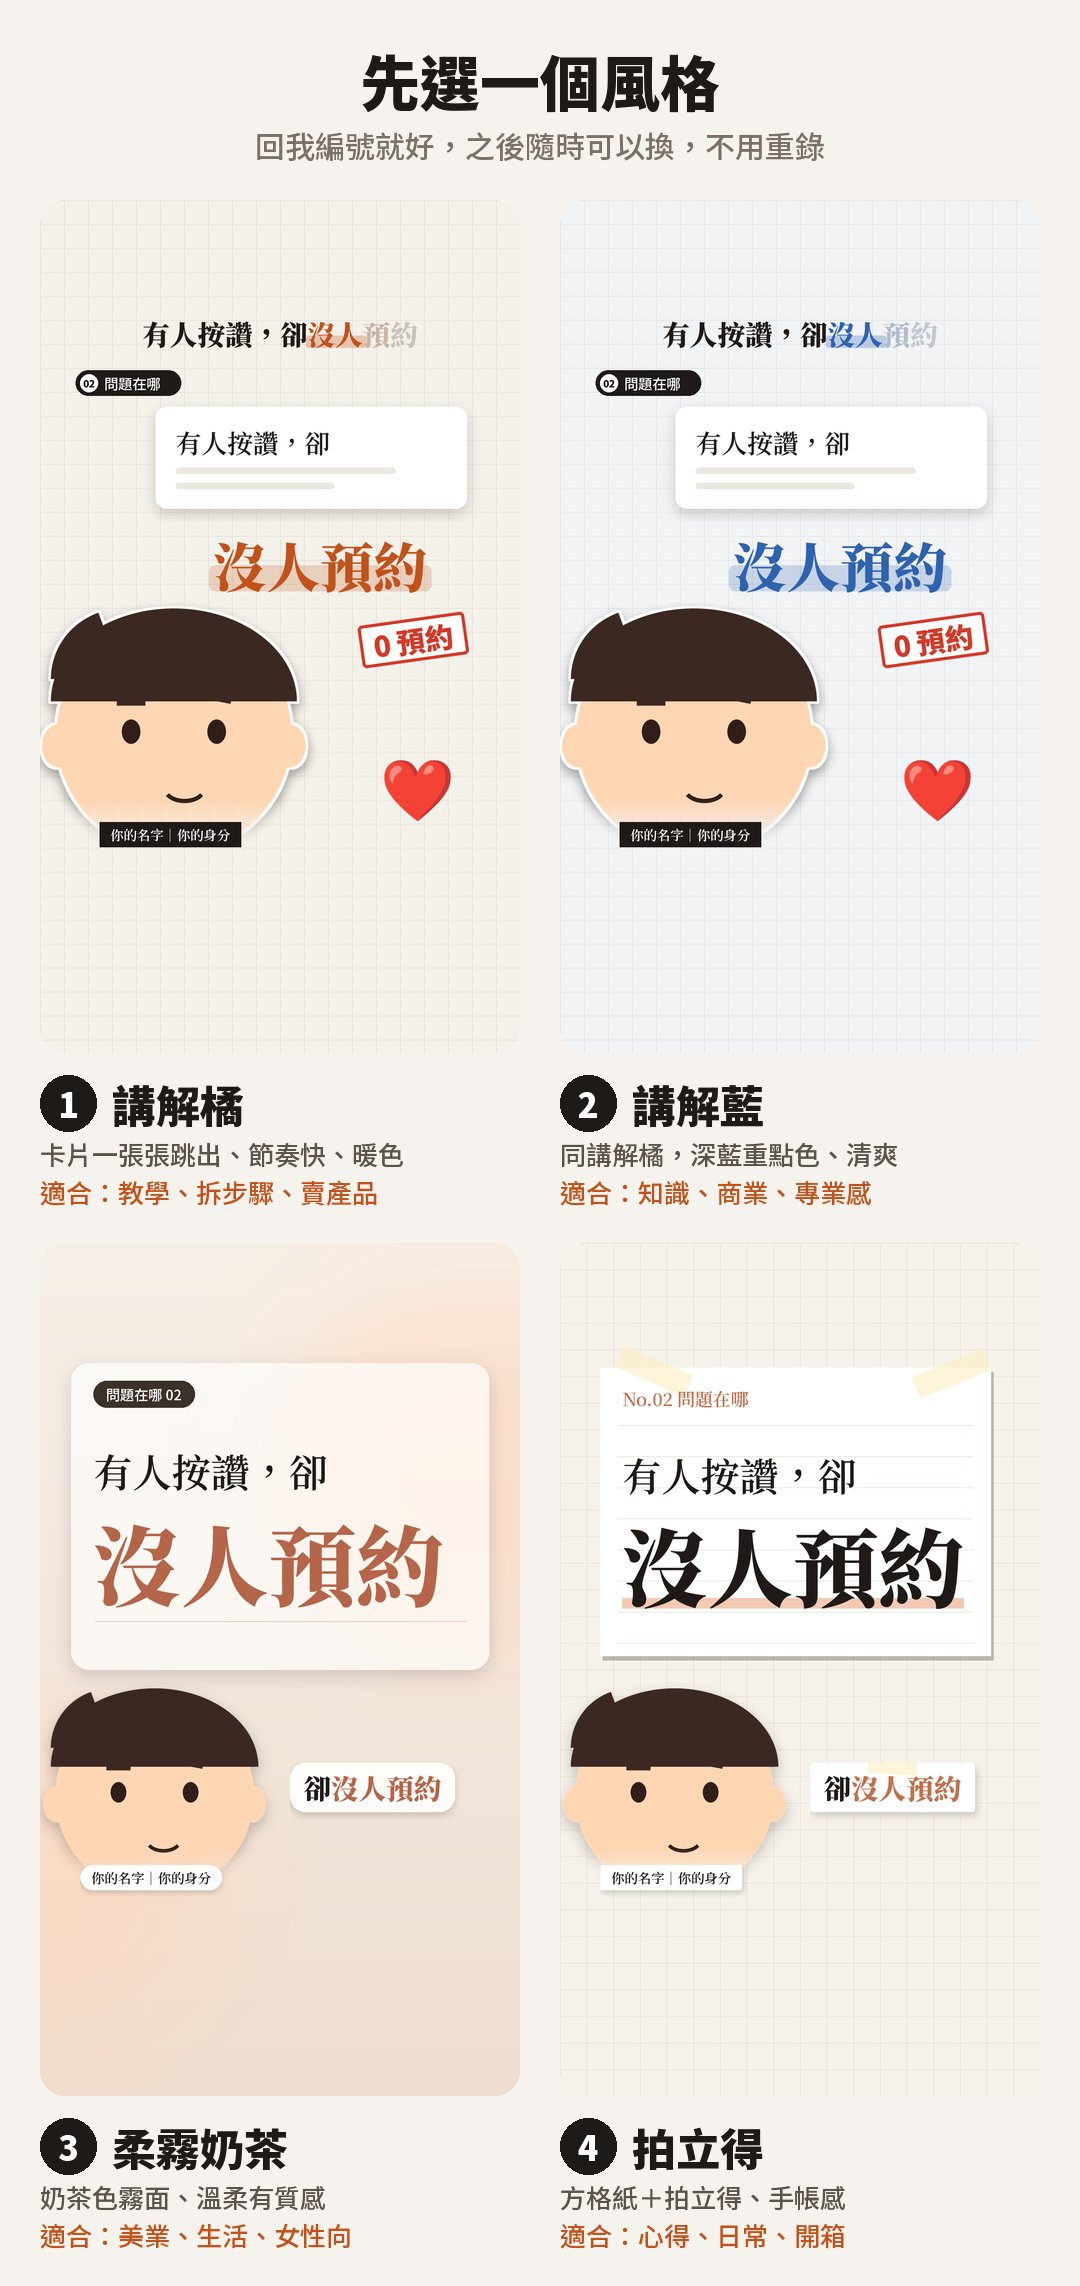
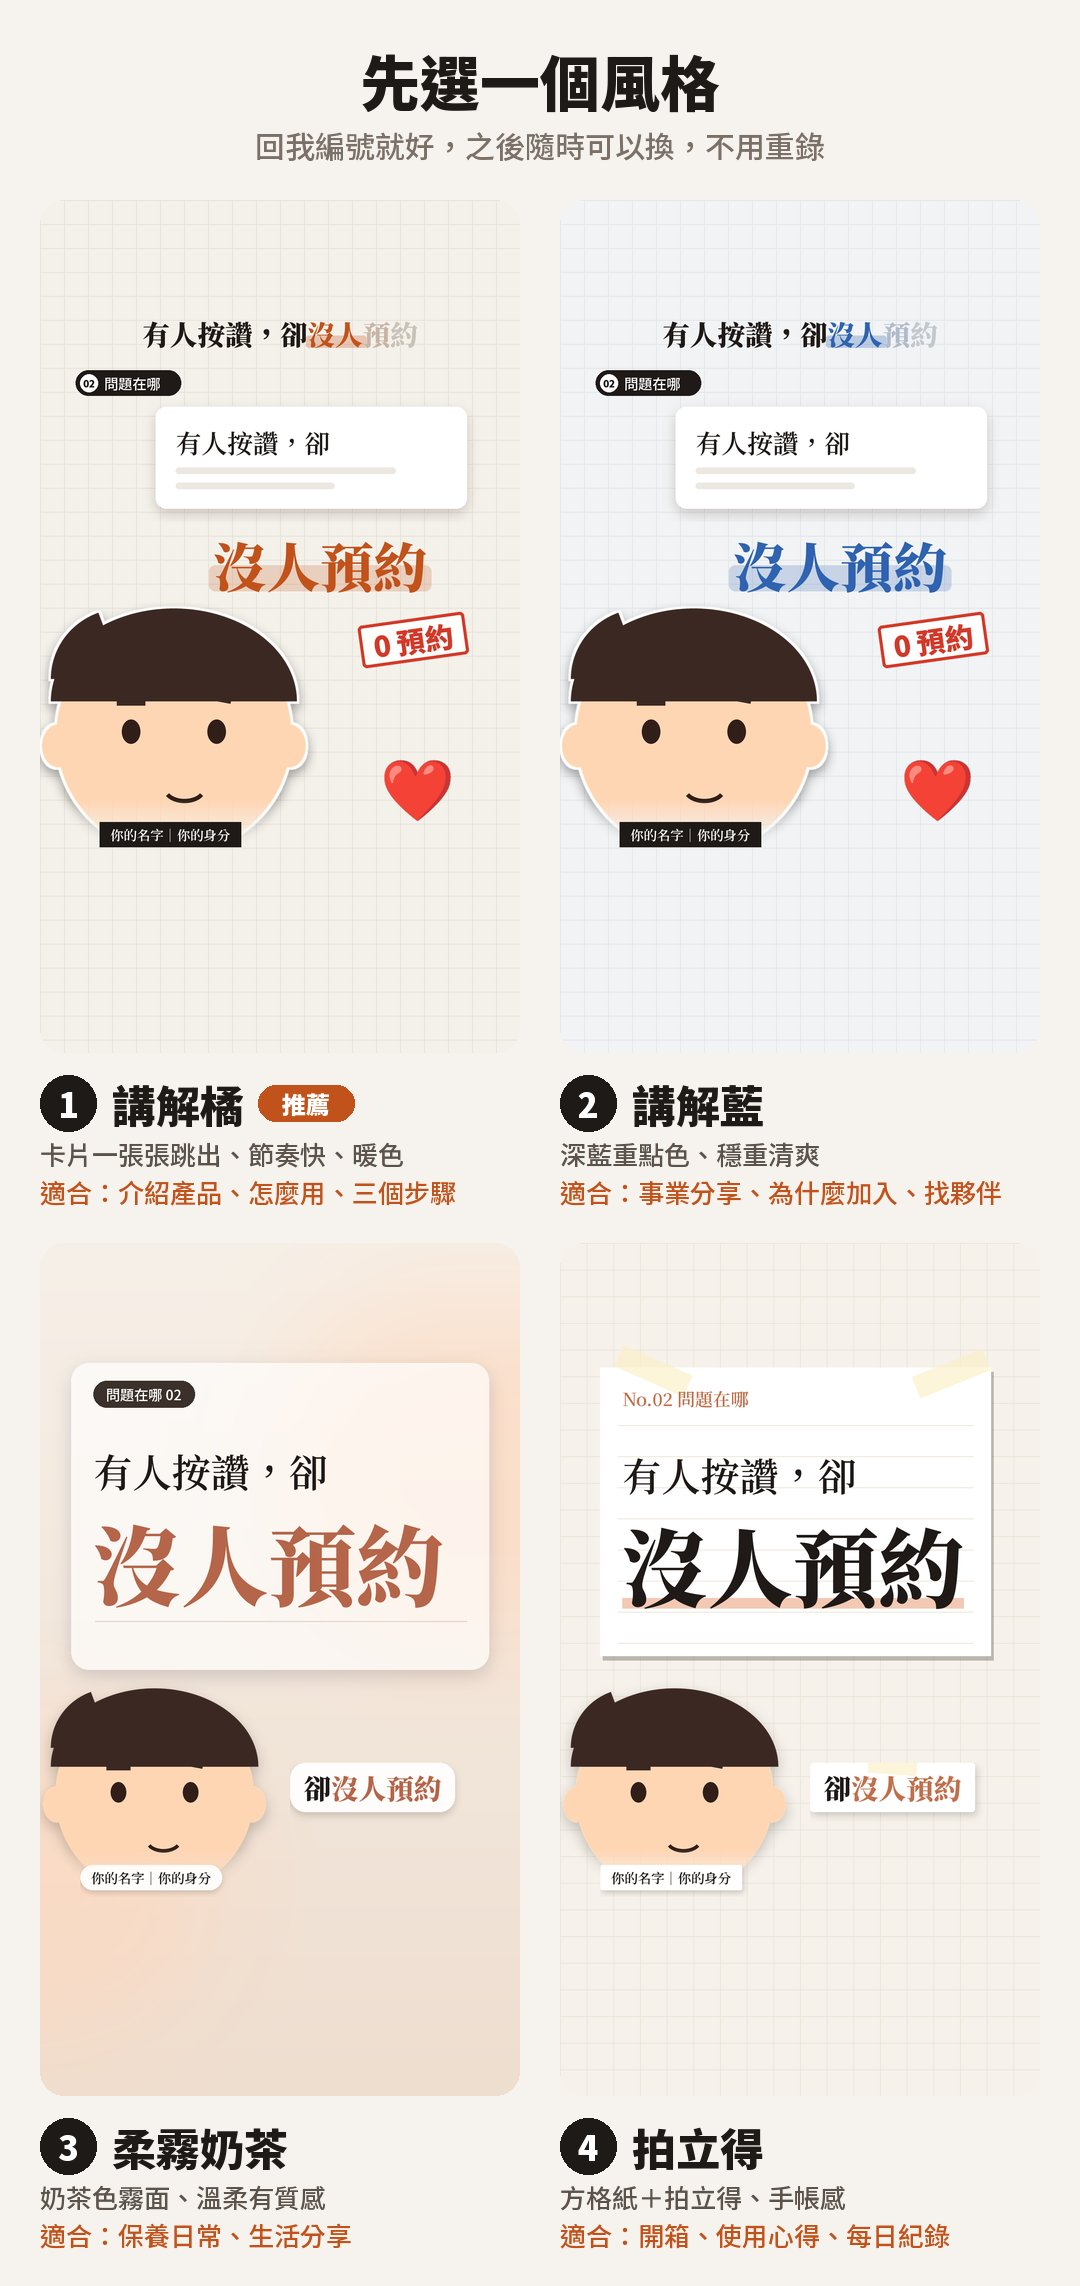
美安夥伴版：風格選擇圖改常拍內容、講解橘標推薦；lint 加療效／收入字眼提醒
Claude-Session: https://claude.ai/code/session_01GUojBFNCRBqSq2a8M2rzgS

diff --git a/scripts/direct.py b/scripts/direct.py
@@ -95,6 +95,21 @@ def show(path):
     print(md); print('（已存 ' + out + '）')
 
 
+# 美安等夥伴最常踩的兩條：保健食品／保養品寫療效、招募片保證收入（只提醒，Claude 要改寫成實際體驗或過程）
+CLAIM_HEALTH = re.compile(r'抗老|抗衰|逆齡|凍齡|回春|治療|治癒|根治|療效|藥效|減肥|瘦身|降血[壓糖脂]|防癌|抗癌|延緩老化|排毒|增強免疫|提升免疫')
+CLAIM_MONEY = re.compile(r'保證|穩賺|一定賺|月入|年收|躺著賺|躺賺|被動收入|財富自由|輕鬆賺|零風險|不用工作|快速致富|翻身')
+
+
+def claim_warns(D):
+    out = []
+    texts = [('開場大字', (D.get('hook') or {}).get('text', ''))] + [(f'第{i}句', l.get('text', '') + ' ' + (l.get('big') or '')) for i, l in enumerate(D['lines'], 1)]
+    for where, t in texts:
+        h = sorted(set(CLAIM_HEALTH.findall(t))); m = sorted(set(CLAIM_MONEY.findall(t)))
+        if h: out.append(f'{where} 有療效字眼「{"、".join(h)}」：保健食品／保養品不能寫功效，改成自己的使用習慣或感受')
+        if m: out.append(f'{where} 有收入字眼「{"、".join(m)}」：招募片不能保證收入，改成說自己為什麼做、過程是什麼')
+    return out
+
+
 def lint(path):
     D = load(path); base = os.path.dirname(os.path.abspath(path)); fd = os.path.join(base, D.get('faces', '../../faces'))
     errs, warns = [], []
@@ -131,6 +146,7 @@ def lint(path):
     if D['lines'] and not any(CTA.search(l['text']) for l in D['lines'][-2:]): warns.append('結尾兩句沒有 CTA（只要一個動作：追蹤／留言／收藏／私訊…，並說為什麼）')
     if D['lines'] and D['lines'][0].get('cam', 'still') == 'still': warns.append('第 1 句運鏡是不動，開頭建議 punch 或 shake')
     if D.get('duration') and not 15 <= D['duration'] <= 90: warns.append(f'總長 {D["duration"]:.0f} 秒，短影音建議 20～60 秒')
+    warns += claim_warns(D)
     for e in errs: print('✗ ' + e)
     for w in warns: print('⚠ ' + w)
     print('導演表檢查：' + ('✓ 沒問題' if not errs and not warns else f'{len(errs)} 個錯誤、{len(warns)} 個建議'))
